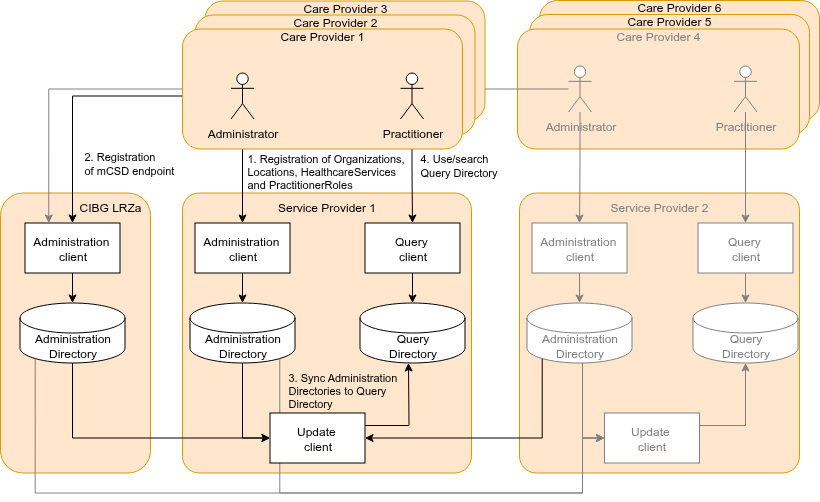
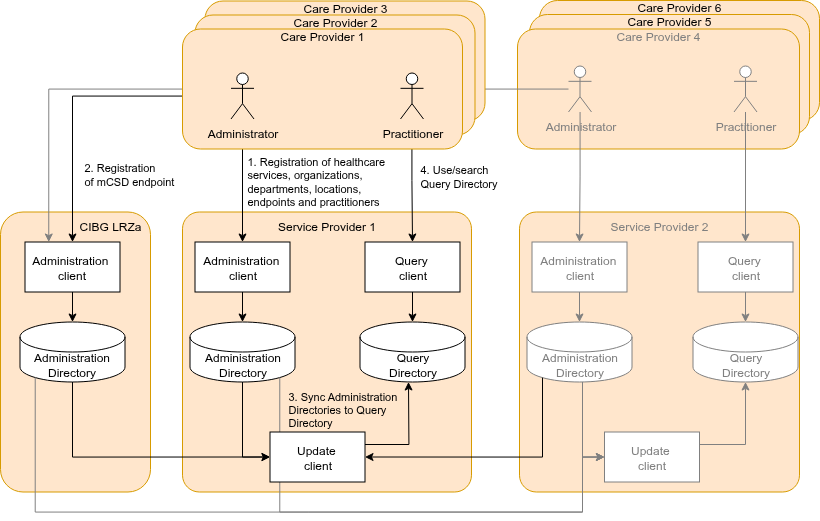
datamodel, typos, layout

diff --git a/input/pagecontent/care-services.md b/input/pagecontent/care-services.md
@@ -6,7 +6,7 @@ In today’s healthcare landscape, organizations rely on both physical and digit
 
 This guide outlines the technical requirements and architectural principles underlying GFA, with a focus on trust, authenticity, and data integrity. Key design principles include:
 
-- International standards: The solution should be based on international standards, lowering the bar for international (European) data exchange and adoption by internationally operating softwqre vendors.
+- International standards: The solution should be based on international standards, lowering the bar for international (European) data exchange and adoption by internationally operating software vendors.
 - Single Source of Truth: Each address record originates from one definitive and authoritative source.
 - Stakeholder Responsibility: Healthcare providers are accountable for maintaining the accuracy of address data in their source systems.
 
@@ -14,7 +14,7 @@ By adhering to these principles, this Implementation Guide supports consistent a
 
 ### Solution overview
 
-GFA follows the IHE [mCSD profile](https://profiles.ihe.net/ITI/mCSD/index.html). The [mCSD profile](https://profiles.ihe.net/ITI/mCSD/index.html) provides multiple options for deployment. This guide specifies the choices that were made for The Netherlands. Most impactfull/striking choice are:
+GFA follows the IHE [mCSD profile](https://profiles.ihe.net/ITI/mCSD/index.html). The [mCSD profile](https://profiles.ihe.net/ITI/mCSD/index.html) provides multiple options for deployment. This guide specifies the choices that were made for The Netherlands. Most impactful/striking choice are:
 - using Dutch 'nl-core' FHIR-profiles on top of IHE mCSD-profiles
 - using the Landelijke Register Zorgaanbieders (LRZa) as the source/master-list of all other sources. 
 
@@ -22,7 +22,7 @@ Here is a brief overview of the processes that are involved:
 1. Every care provider registers it's addressable entities in an 'Administration Directory'.
 1. Every care provider registers the endpoint (url) of it's 'Administration Directory' at the LRZa registry.
 1. An 'Update client' uses the LRZa and the Administration Directories to consolidate all data into a 'Query Directory'
-1. A practitioner and/or system (EHR) can now use the Query Directory to search for a service, organization, department, location, endpoint or practitioner
+1. A practitioner and/or system (EHR) can now use the Query Directory to search for a healthcare service, organization, department, location, endpoint or practitioner
 
 Each component, data model and transaction will be discussed in more detail.
 
@@ -32,13 +32,13 @@ Each component, data model and transaction will be discussed in more detail.
 ### Components (actors)
 
 #### Administration Client
-The Administration Client is responsible for managing the registration and maintenance of addressable entities within a healthcare organization. It should be able to create, update, and delete records for organizations, departments, practitioners, locations, endpoints, and healthcare services in the Administration Directory. Addressable entities MUST conform to the [Data models](#data-models).
+The Administration Client is responsible for managing the registration and maintenance of addressable entities within a healthcare organization. It should be able to create, update, and delete records for healthcare services, organizations, departments, locations, endpoints or practitioners in the Administration Directory. Addressable entities MUST conform to the [Data models](#data-models).
 
 The Administration Client of the LRZa provides an user interface for healthcare providers to administer their Administration Directory endpoint (url).
 
 
 #### Administration Directory
-The Administration Directory persist all addressable entities of one or more healthcare organizations. The Administration Directory MAY implement [these capabilities](./CapabilityStatement-nl-gf-admin-directory-admin-client.html) for an Administration Client to create, update and delete resources. If you've implemented both an Administration Client & Directory, you can also choose to use propriatairy formats/APIs/transactions between these components. 
+The Administration Directory persist all addressable entities of one or more healthcare organizations. The Administration Directory MAY implement [these capabilities](./CapabilityStatement-nl-gf-admin-directory-admin-client.html) for an Administration Client to create, update and delete resources. If you've implemented both an Administration Client & Directory, you can also choose to use proprietary formats/APIs/transactions between these components. 
 
 The Administration Directory MUST implement [these capabilities](./CapabilityStatement-nl-gf-admin-directory-update-client.html) to publish changes of addressable entities. These changes are consumed by an Update Client.
 
@@ -56,7 +56,7 @@ The Update Client uses a [FHIR 'history-type' transactions](http://hl7.org/fhir/
 ```
 GET https://somecareprovider.nl/fhirR4/Organization/_history?_since=2025-02-07T13:28:17.239+02:00&_format=application/fhir+json
 ```
-Besides using the 'history-type' transaction, the Update Client should be able to do query everything in the Administration Directory using a search transaction. Either for the inial load or periodically for a full reload to fix edge-case scenario's (e.g. Administration Directory backup restores). 
+Besides using the 'history-type' transaction, the Update Client should be able to do query everything in the Administration Directory using a search transaction. Either for the initial load or periodically for a full reload to fix edge-case scenario's (e.g. Administration Directory backup restores). 
 
 During consolidation, multiple Administration Directories may have overlapping or conflicting entities. An Update Client MUST obey these guidelines:
 - The LRZa Administration Directory is authoritative for Organization instances with `identifier` of system `http://fhir.nl/fhir/NamingSystem/ura` (URA), it's `name` and `status`. When the Healthcare provider's Administration Directory also provides a `name` or `status` value (for an Organization-instance with a URA-identifier), it should be ignored. Other elements from the Healthcare provider's Administration Directory should be added. This way, a Healthcare Provider can add an `alias` or `endpoint` using it's own Administration Directory.
@@ -69,34 +69,62 @@ After consolidation, the Update Client writes the updates to a Query Directory. 
 
 
 #### Query Directory
-The Query Directory persist all addressable entities it receives from the Update Client. The Query Directory MAY implement [these capabilities](./CapabilityStatement-nl-gf-admin-directory-admin-client.html) for an Update Client to create, update and delete resources. If you've implemented both an Update Client & Query Directory, you can also choose to use propriatairy formats/APIs/transactions between these components. 
+The Query Directory persist all addressable entities it receives from the Update Client. The Query Directory MAY implement [these capabilities](./CapabilityStatement-nl-gf-admin-directory-admin-client.html) for an Update Client to create, update and delete resources. If you've implemented both an Update Client & Query Directory, you can also choose to use proprietary formats/APIs/transactions between these components. 
 
-The Query Directory serves/exposes all addressable entities to one or more Query Clients. The Query Directory MAY implement [these capabilities](./CapabilityStatement-nl-gf-query-directory-query-client.html) for a Query Client to search and read resources. If you've implemented both an Query Client & Query Directory, you can also choose to use propriatairy formats/APIs/transactions between these components. 
+The Query Directory serves/exposes all addressable entities to one or more Query Clients. The Query Directory MAY implement [these capabilities](./CapabilityStatement-nl-gf-query-directory-query-client.html) for a Query Client to search and read resources. If you've implemented both an Query Client & Query Directory, you can also choose to use proprietary formats/APIs/transactions between these components. 
 
 #### Query Client
-The Query Client is used to search and retrieve information from the Query Directory, which contains consolidated data from all Administration Directories. It enables practitioners, EHR systems, and other healthcare applications to discover organizations, departments, practitioners, locations, endpoints, and healthcare services across the entire ecosystem. By querying the Query Directory, users can efficiently find up-to-date and authoritative addressable entities for care coordination, referrals, and electronic data exchange.
+The Query Client is used to search and retrieve information from the Query Directory, which contains consolidated data from all Administration Directories. It enables practitioners, EHR systems, and other healthcare applications to discover healthcare services, organizations, departments, locations, endpoints or practitioners across the entire ecosystem. By querying the Query Directory, users can efficiently find up-to-date and authoritative addressable entities for care coordination, referrals, and electronic data exchange.
 
 
 ### Data models
+Within GF Addressing, profiles are used to validate data. They are based on both mCSD-profiles and nl-core-profiles (TODO: use Nictiz nl-core package as soon as dependency-bug is fixed). Ideally, these profiles are merged in the nl-core-profiles in the future. 
 
-Within GF Addressing, profiles are used to validate data. They are based both mCSD-profiles and nl-core-profiles (TODO: use Nictiz nl-core package as soon as dependancy-bug is fixed)
+A brief description of the data models and their profile for this guide:
 
-- [Organization](./StructureDefinition-nl-gf-organization.html): no extra constraints on top of mCSD & nl-core
-- [Endpoints](./StructureDefinition-nl-gf-endpoint.html): extra value set constraint on .payloadType (ref: [ADR 8]()) and additional extention 'replacedBy'. This can be used to point to a new endpoint if the old one has changed or is deprecated. 
-- [HealthcareService](./StructureDefinition-nl-gf-healthcareservice.html): value set constraint on .type and .specialty
-- [Location](./StructureDefinition-nl-gf-location.html): no extra constraints on top of mCSD & nl-core. 
-- [Practitioner](./StructureDefinition-nl-gf-practitioner.html): no extra constraints on top of mCSD & nl-core
-- [PractitionerRole](./StructureDefinition-nl-gf-practitionerrole.html): no extra constraints on top of mCSD & nl-core
-- [OrganizationAffiliation](./StructureDefinition-nl-gf-organizationaffiliation.html): no extra constraints on top of mCSD & nl-core
+#### Organization
+Organizations are “umbrella” entities; these may be considered the administrative bodies under whose auspices care services are provided. An (top-level)Organization-instance has a URA identifier, type and name and may have additional attributes like the Endpoints it uses. Departments of an institution, or other administrative units, may be represented as child Organizations of a parent Organization.
+The [NL-GF-Organization profile](./StructureDefinition-nl-gf-organization.html) contains no extra constraints on top of mCSD & nl-core profiles. 
 
-Ideally, these profiles are merged in the nl-core-profiles in the future.
+#### Endpoint
+An Organization may be reachable for electronic data exchange through electronic Endpoint(s). An Endpoint may be a FHIR server, an DICOM web services, or some other mechanism. If an Organization does not have an Endpoint, it may still be reachable via an Endpoint at its parent Organization or an affiliated Organization.
+The [NL-GF-Endpoints profile](./StructureDefinition-nl-gf-endpoint.html) has an extra value set constraint on .payloadType (source: [ADR-8](./care-services-adrs.html#adr-8-how-to-register-and-find-the-capabilities-of-an-endpoint)) and an additional extension 'replacedBy'. This can be used to point to a new endpoint if the old one has changed.
 
-
-### Changing endpoints and the continued integrity of references
-Healthcare records (e.g. conditions, observations or procedures) will contain links (references) to addressable entities. Some entities may be referenced by an *identifier* (e.g. a URA or DEZI-number), but most references will use either a local *ID* (e.g. Patient/880e50a3-6516-4861-8dcd-483714b4e1f2) or URL (https://somecareprovider.nl/fhirR4/Patient/880e50a3-6516-4861-8dcd-483714b4e1f2). The (local) IDs and (remote) URLs are definitive and widely supported in the FHIR ecosystem. Identifiers may be harder to resolve, may expose sensitive data (like a Citizen number; Dutch BSN) and can be ambiguous (multiple instances carrying the same identifier).
+> ##### Changing endpoints and the continued integrity of references
+> Healthcare records (e.g. conditions, observations or procedures) will contain links (references) to addressable entities. Some entities may be referenced by an *identifier* (e.g. a URA or DEZI-number), but most references will use either a local *ID* (e.g. Patient/880e50a3) or URL (https://somecareprovider.nl/fhirR4/Patient/880e50a3). The (local) IDs and (remote) URLs are definitive and widely supported in the FHIR ecosystem. Identifiers may be harder to resolve, may expose sensitive data (like a Citizen number; Dutch BSN) and can be ambiguous (multiple instances carrying the same identifier).
 IDs and URLs are easy in use and (should be) resolvable, but they may break over time which leads to broken references and unresolvable medical records. Try to use endpoints that can remain stable for long periods (5-10 years) and use universally unique IDs (UUIDs) in stead of e.g. incrementing numeric values. If the Endpoint.address (the base part of URLs) must be changed, use the `status` and `replacedBy` extension to properly redirect and fix broken links, ensuring continued integrity of references. Don't delete Endpoint-instances.
+>
+>For example, care provider 'CP1' uses an EHR from software vendor 'SV1'. This vendor SV1 uses endpoint-url 'https://sv1/fhirR4' for every customer (care provider). Now if CP1 wants to switch to a new vendor, this endpoint-url may risk lots of broken references in many EHR-systems. A better option would be url 'https://sv1/**cp1**/fhirR4' where a change can be applied to all references in a system OR url 'https://cp1/fhirR4' that may prevent a change altogether (until FHIR R4 is outdated...).
 
-For example, care provider 'CP1' uses an EHR from software vendor 'SV1'. This vendor SV1 uses endpoint-url 'https://sv1/fhirR4' for every customer (care provider). Now if CP1 wants to switch to a new vendor, this endpoint-url may risk lots of broken references in many EHR-systems. A better option would be url 'https://sv1/**cp1**/fhirR4' where a change can be applied to all references in a system OR url 'https://cp1/fhirR4' that may prevent a change alltogether (untill fhirR4 is outdated...).
+#### HealthcareService
+Healthcare services are used to publish which (medical) services are provided by an (child) Organization. Examples include surgical services, antenatal care services, or primary care services. These services in `HealthcareService.type` can be extended by references to specific ActivityDefinitions and PlanDefinitions that are supported. The combination of a Healthcare Service offered at a Location may have specific attributes including contact person, hours of operation, etc.
+The [NL-GF-HealthcareService profile](./StructureDefinition-nl-gf-healthcareservice.html) contains a value set constraint on .type and .specialty and an extension on .type to refer to Activity/PlanDefinitions.
+
+#### Location
+Locations are physical places where care can be delivered such as buildings (NL: Vestiging), wards, rooms, or vehicles. A Location may have geographic attributes (address, geocode), attributes regarding its hours of operation, etc. Each Location is related to one (child) Organization. A location may have a hierarchical relationship with other locations (e.g. building > floor > room).
+The [NL-GF-Location profile](./StructureDefinition-nl-gf-location.html) has no extra constraints on top of mCSD & nl-core profiles. 
+
+
+#### PractitionerRole
+PractitionerRole resources are used to define the specific roles, specialties, and responsibilities that a Practitioner holds within an Organization. PractitionerRole enables precise modeling of relationships between practitioners and organizations, supporting scenarios like assigning practitioners to departments, specifying their roles (e.g., surgeon, nurse), and linking them to particular healthcare services or locations. A PractitionerRole may have contact details for phone, mail or direct messaging. The information in a PractitionerRole-instance is equivalent to the info on a Dutch 'UZI-pas'.
+The [NL-GF-PractitionerRole profile](./StructureDefinition-nl-gf-practitionerrole.html): no extra constraints on top of mCSD & nl-core profiles. 
+
+
+#### Practitioner
+***This resourcetype is out-of-scope for this IG-version***
+Practitioner is a health worker such as physician, nurse, pharmacist, community health worker, district health manager, etc. Practitioners have a name and may have qualifications (like in the Dutch BIG-register).  The registration (Administration Directory) of Practitioners may be assigned to the Dutch BIG-register or similar organizations. 
+The [NL-GF-Practitioner profile](./StructureDefinition-nl-gf-practitioner.html): no extra constraints on top of mCSD & nl-core profiles. 
+
+
+#### OrganizationAffiliation
+***This resourcetype is out-of-scope for this IG-version***
+OrganizationAffiliation resources are used to represent relationships between organizations, such as a software vendor managing the Endpoint that is used by a care provider. It could also be used the represent multiple care providers working together under some agreement (e.g. in a region).
+The [NL-GF-OrganizationAffiliation profile](./StructureDefinition-nl-gf-organizationaffiliation.html) has no extra constraints on top of mCSD & nl-core profiles.  
+
+An overview of the *most common* elements and relations between data models:
+
+<img src="careservices-datamodel.png" width="100%" style="float: none"/>
+
 
 ### Security
 The service provider of an Administration Directory may choose whether to require mTLS certificates. Certificate Authority PKI-O should be trusted. For cross-border data exchange using mTLS, support for additional CA's is required. If mTLS is not used, Administration Directory endpoints must be unconditionally available to everyone.
@@ -107,7 +135,7 @@ The service provider of an Administration Directory may choose whether to requir
 The patient, Vera Brooks, consults with her physician who recommends surgery. The physician can assist the patient in finding a suitable care provider, taking into consideration the location and specialty for orthopedic surgeons.
 - Vera Brooks sees her family physician, Dr. West, regarding a recent knee injury.
 - Dr. West diagnoses the problem as a torn ACL and decides to refer Vera to an clinic that provides orthopedic specialists.
-- Dr. West uses her EHR query tool, which implements a Query Client to search for orthopedic healthcareservices within 30km of Vera’s home.
+- Dr. West uses her EHR query tool, which implements a Query Client to search for orthopedic healthcare services within 30km of Vera’s home.
 - The EHR retrieves the information from a Query Directory and displays it to Dr. West.
 - Vera and Dr. West decide on the Orthopedic department at Hospital East; Dr. West prepares a referral.
 <div>
@@ -116,8 +144,8 @@ The patient, Vera Brooks, consults with her physician who recommends surgery. Th
 
 #### Use Case #2: Endpoint Discovery
 Dr. West just created a referral (for patient Vera Brooks from use case #1). The EHR has to notify Hospital East and the Orthopedic department of this referral. This may include some recurring requests:
-- The EHR looks up the Healthcareservice instance of the Orthopedic department at the Query Directory, fetches the related endpoints and checks if these support a 'Transfer of care' payload. If none found:
-    - The EHR looks up the associated Organization of the Healthcareservice at the Query Directory, fetches related endpoints and checks if these support a 'Transfer of care' payload. If none found:
+- The EHR looks up the HealthcareService instance of the Orthopedic department at the Query Directory, fetches the related endpoints and checks if these support a 'Transfer of care' payload. If none found:
+    - The EHR looks up the associated Organization of the HealthcareService at the Query Directory, fetches related endpoints and checks if these support a 'Transfer of care' payload. If none found:
         - The EHR looks up the associated/parent Organization of the Organization at the Query Directory, fetches related endpoints and checks if these support a 'Transfer of care' payload. If none found: repeat last step.
 - As soon as an endpoint is found, the EHR sends the notification and referral-workflow continues.
 

diff --git a/README.md b/README.md
@@ -9,7 +9,7 @@ This FHIR IG is setup to auto-build to https://build.fhir.org/ig/nuts-foundation
 The build-logs of this auto-build ae published on https://chat.fhir.org/#narrow/stream/179297-committers.2Fnotification/topic/ig-build (could take 2-3 minutes after a commit to the repo)
 In the ./build.log you can find the build log. Validation tests are in ./output/qa.html
 
-This IG can also be triggerred manually using the FHIR Implementation Guide Auto-Builder. To trigger a build, use this curl statement (change to branchname 'main' to whatever branch you're trying to build):
+This IG can also be triggered manually using the FHIR Implementation Guide Auto-Builder. To trigger a build, use this curl statement (change to branchname 'main' to whatever branch you're trying to build):
 
 curl -X POST  "https://us-central1-fhir-org-starter-project.cloudfunctions.net/ig-commit-trigger" \
 -H "Content-Type:application/json" \
@@ -27,7 +27,8 @@ source ~/.bashrc
 create a snapshot of the Dutch profiles using 
 ```
 fhir install nictiz.fhir.nl.r4.nl-core 0.12.0-beta.1
-````
+```
+
 [Install NodeJS & Sushi](https://fshschool.org/docs/sushi/installation/) to generate FHIR-resource from FSH-files (it will need the snapshots you've just created):
 ```
 curl -fsSL https://deb.nodesource.com/setup_20.x | sudo -E bash - &&\

diff --git a/input/pagecontent/care-services-adrs.md b/input/pagecontent/care-services-adrs.md
@@ -1,0 +1,6 @@
+## Architecture Decision Records
+Why certain solutions were chosen
+
+
+### ADR 8 How to register and find the capabilities of an Endpoint 
+TODO
